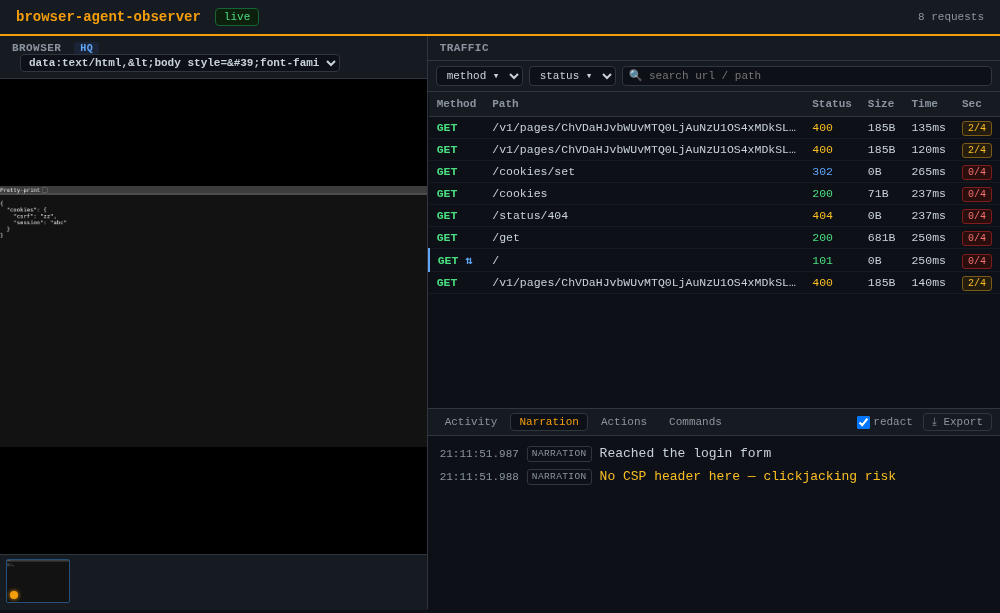
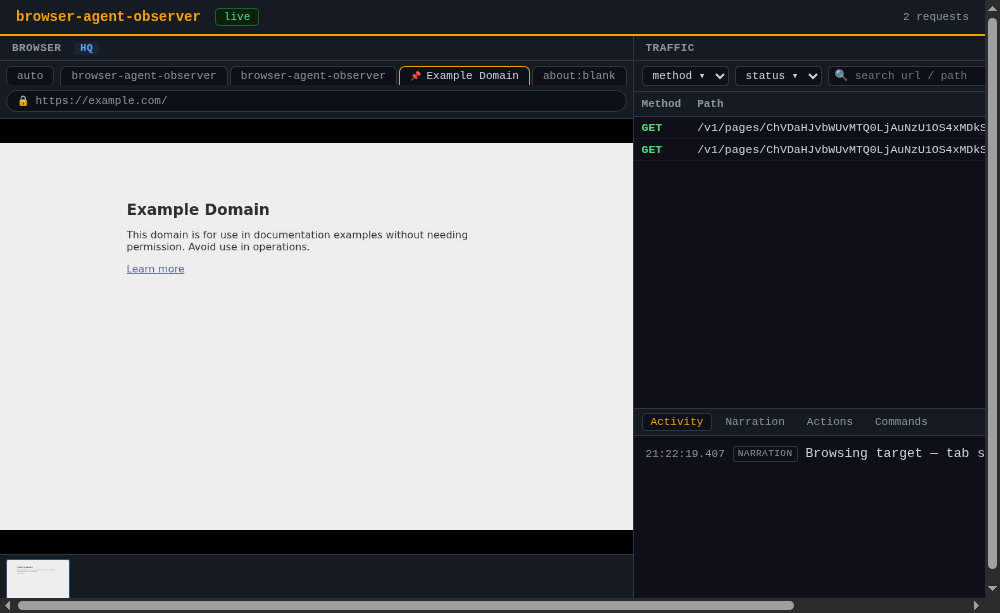
Browser-like chrome: tab strip + address bar over the mirror
Make the Browser pane read like a real browser using the multi-tab data we
already stream:
- a tab strip (an 'auto' chip + one chip per open tab); the mirrored tab is
  highlighted and the explicitly-pinned one gets a 📌
- an address bar (omnibox) showing the followed tab's URL with a 🔒/🌐 icon,
  updated live (and snappily on navigations)
Replaces the plain dropdown. Backend now annotates broadcast 'tabs' events with
the current selection so the UI can mark the pinned tab. Clicking a chip pins
that tab; 'auto' returns to auto-follow.
Refreshed the README hero screenshot (real page rendered + chrome).

diff --git a/static/app.js b/static/app.js
@@ -312,6 +312,8 @@
     line.title = "jump to the closest traffic row";
     line.addEventListener("click", () => syncToTraffic(event.ts));
     if (event.coords) showCursor(event.coords);
+    // Snappy address-bar update on navigation (tabs poll would catch up in ~1s).
+    if (event.action === "navigate" && event.target) setOmni(event.target);
     markFilmstrip(event);
   }
 
@@ -432,34 +434,59 @@
     }
   }
 
-  // ---- tab selector (multi-tab following) -------------------------------
-  const tabSelect = document.getElementById("tab-select");
+  // ---- synthetic browser chrome: tab strip + omnibox (multi-tab) --------
+  const browserChrome = document.getElementById("browser-chrome");
+  const tabStrip = document.getElementById("tab-strip");
+  const omniLock = document.getElementById("omni-lock");
+  const omniUrl = document.getElementById("omni-url");
   let lastTabsKey = "";
-  tabSelect.addEventListener("change", () => {
-    const v = tabSelect.value;
+
+  function selectTab(targetId) {
     fetch("/select-tab", {
       method: "POST", headers: { "content-type": "application/json" },
-      body: JSON.stringify({ targetId: v === "auto" ? null : v }),
+      body: JSON.stringify({ targetId }),
     });
-  });
+  }
+
+  function setOmni(url) {
+    const https = /^https:/i.test(url || "");
+    omniLock.textContent = https ? "🔒" : (url ? "🌐" : "");
+    omniUrl.textContent = url || "";
+    omniUrl.title = url || "";
+  }
 
   function renderTabs(event) {
     const tabs = event.tabs || [];
-    // Only rebuild when the set/selection actually changes, so a 1s poll
+    // Only rebuild when the set/selection actually changes so a 1s poll
     // doesn't fight the user mid-click.
-    const key = tabs.map((t) => t.id).join(",") + "|" + (event.selected || "") + "|" + (event.current || "");
+    const key = tabs.map((t) => t.id + ":" + t.title + ":" + t.url).join("|") +
+      "|" + (event.selected || "") + "|" + (event.current || "");
     if (key === lastTabsKey) return;
     lastTabsKey = key;
-    if (tabs.length <= 1) { tabSelect.style.display = "none"; return; }
-    tabSelect.style.display = "";
-    tabSelect.innerHTML =
-      '<option value="auto">▾ auto-follow</option>' +
-      tabs.map((t) => {
-        const label = (t.title || t.url || t.id || "").slice(0, 46);
-        const dot = t.id === event.current ? " ●" : "";
-        return `<option value="${escapeHtml(t.id)}">${escapeHtml(label)}${dot}</option>`;
-      }).join("");
-    tabSelect.value = event.selected || "auto";
+    if (!tabs.length) { browserChrome.classList.add("hidden"); return; }
+    browserChrome.classList.remove("hidden");
+
+    // Address bar mirrors the currently-followed tab's URL.
+    const cur = tabs.find((t) => t.id === event.current);
+    setOmni(cur && cur.url);
+
+    // Tab strip: an "auto" chip + one chip per open tab.
+    const autoActive = !event.selected;
+    let html = `<button class="tab-chip auto${autoActive ? " active" : ""}" data-id="__auto__" title="auto-follow the active page">auto</button>`;
+    html += tabs.map((t) => {
+      const active = t.id === event.current;
+      const pinned = t.id === event.selected;
+      const label = escapeHtml((t.title || t.url || "tab").slice(0, 28));
+      return `<button class="tab-chip${active ? " active" : ""}${pinned ? " pinned" : ""}" ` +
+        `data-id="${escapeHtml(t.id)}" title="${escapeHtml(t.url || "")}">${label}</button>`;
+    }).join("");
+    tabStrip.innerHTML = html;
+    tabStrip.querySelectorAll(".tab-chip").forEach((btn) => {
+      btn.addEventListener("click", () => {
+        const id = btn.dataset.id;
+        selectTab(id === "__auto__" ? null : id);
+      });
+    });
   }
 
   function addWsMessage(event) {

diff --git a/static/style.css b/static/style.css
@@ -150,6 +150,34 @@ section h2 {
 .badge-hq { background: #1a2436; color: var(--blue); }
 .badge-paused { background: #2a230d; color: var(--orange); }
 
+/* Synthetic browser chrome (tab strip + address bar) above the mirror */
+#browser-chrome { background: var(--bg-alt); border-bottom: 1px solid var(--border); flex: 0 0 auto; }
+#browser-chrome.hidden { display: none; }
+#tab-strip {
+  display: flex; gap: 2px; padding: 5px 6px 0;
+  overflow-x: auto; overflow-y: hidden;
+}
+.tab-chip {
+  background: var(--bg); color: var(--muted);
+  border: 1px solid var(--border); border-bottom: none;
+  border-radius: 6px 6px 0 0; padding: 3px 10px;
+  font: inherit; font-size: 11px; cursor: pointer; white-space: nowrap;
+  max-width: 190px; overflow: hidden; text-overflow: ellipsis;
+}
+.tab-chip:hover { color: var(--text); }
+.tab-chip.active { color: var(--text); border-color: var(--accent); border-bottom: 1px solid var(--bg); margin-bottom: -1px; }
+.tab-chip.pinned::before { content: "📌 "; font-size: 9px; }
+.tab-chip.auto { border-radius: 5px; margin-right: 4px; }
+.tab-chip.auto.active { color: var(--accent); border-color: var(--accent); }
+#omnibox {
+  display: flex; align-items: center; gap: 6px;
+  margin: 5px 6px 6px; padding: 4px 10px;
+  background: var(--bg); border: 1px solid var(--border); border-radius: 14px;
+  font-size: 11px; min-height: 22px;
+}
+#omni-lock { flex: 0 0 auto; font-size: 10px; }
+#omni-url { color: var(--muted); white-space: nowrap; overflow: hidden; text-overflow: ellipsis; }
+
 /* Filmstrip */
 #filmstrip {
   display: flex;

diff --git a/static/index.html b/static/index.html
@@ -14,9 +14,11 @@
 
   <main id="layout">
     <section id="browser-pane">
-      <h2>Browser <span id="frame-badge" class="frame-badge"></span>
-        <select id="tab-select" class="tab-select" title="Which browser tab to mirror" style="display:none"></select>
-      </h2>
+      <h2>Browser <span id="frame-badge" class="frame-badge"></span></h2>
+      <div id="browser-chrome" class="hidden">
+        <div id="tab-strip" title="click a tab to mirror it; ‘auto’ follows the active page"></div>
+        <div id="omnibox"><span id="omni-lock"></span><span id="omni-url"></span></div>
+      </div>
       <div class="pane-body" id="browser-body">
         <div id="frame-wrap">
           <img id="browser-frame" alt="waiting for browser feed…">

diff --git a/server.py b/server.py
@@ -175,6 +175,9 @@ async def ingest_screencast(ws: WebSocket):
             event = json.loads(raw)
             if event.get("type") == "tabs":
                 latest_tabs = event.get("tabs", [])
+                # Annotate with the current selection so the UI can mark the
+                # pinned tab (the forwarder only reports which one it's mirroring).
+                event["selected"] = selected_target or None
                 await _broadcast(event)
                 continue
             latest_frame = event